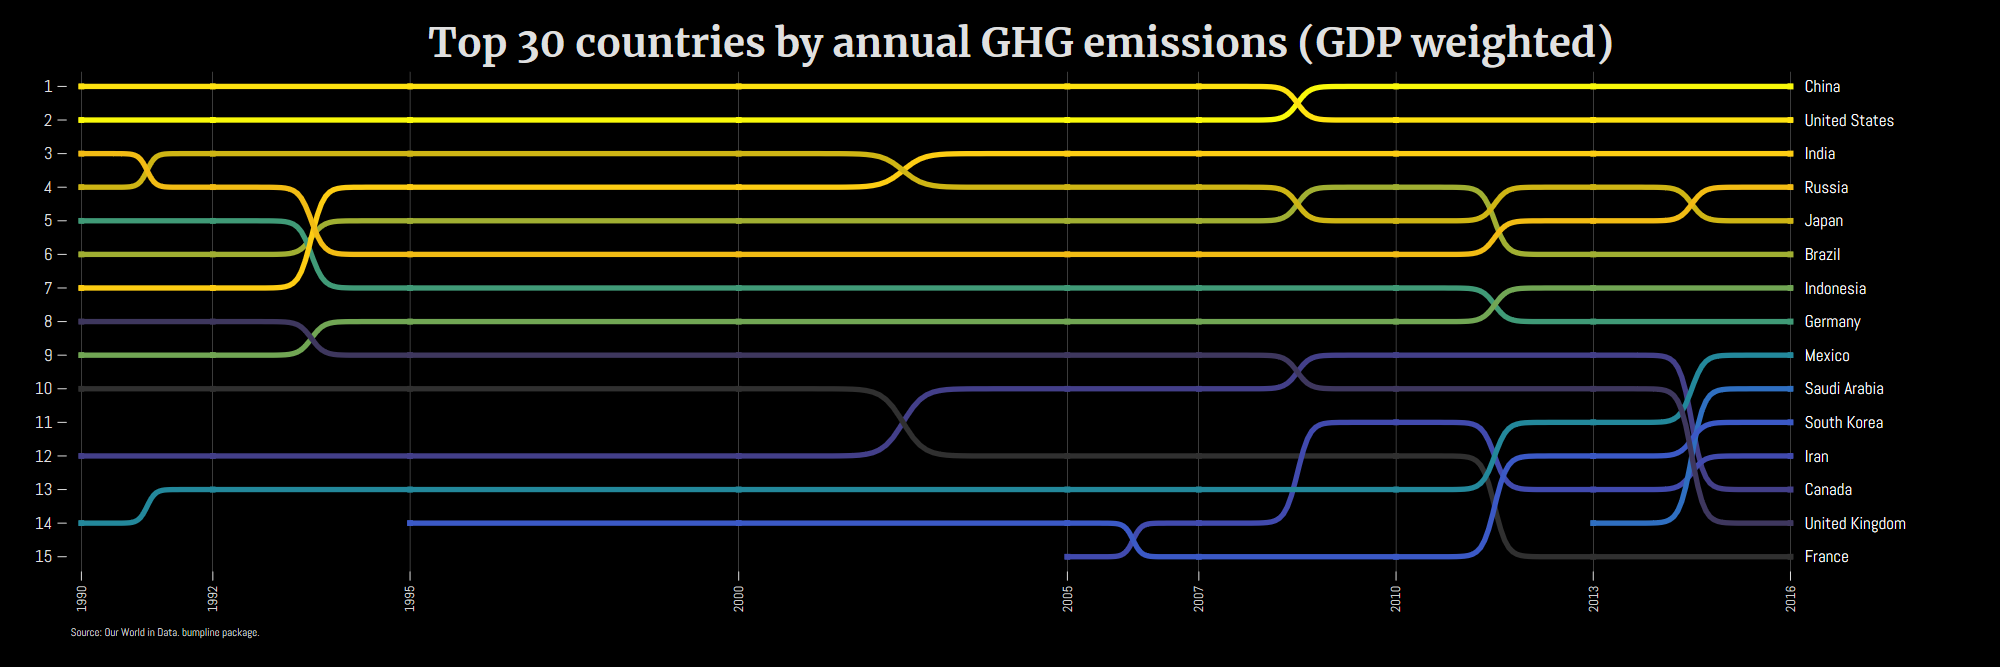
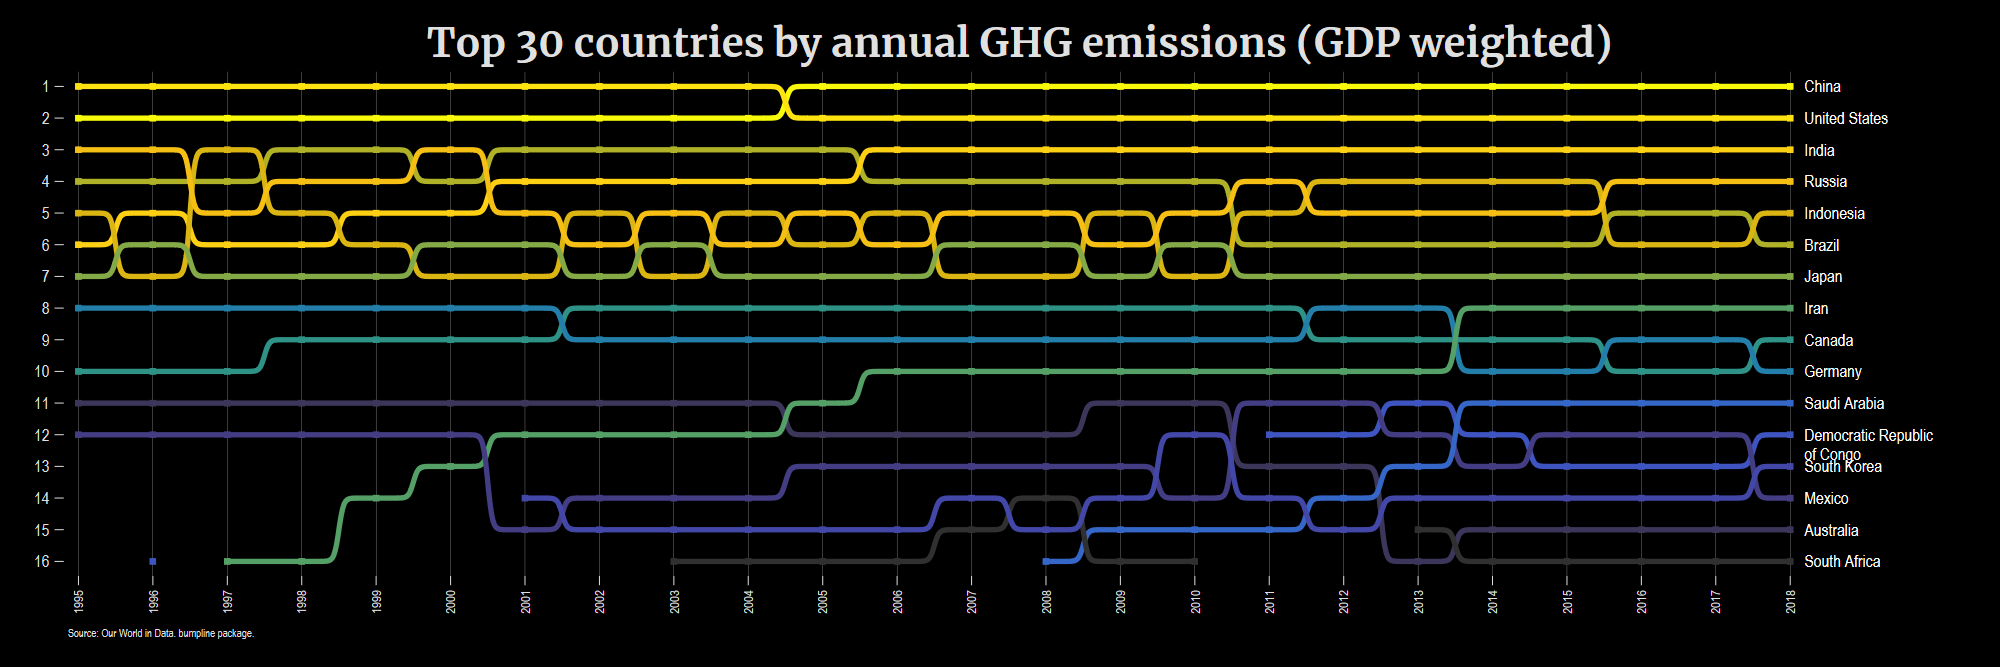
v1.3 figs

diff --git a/README.md b/README.md
@@ -112,7 +112,7 @@ Naqvi, A. (2024). Stata package "bumpline" version 1.3. Release date 22 October 
 
 Load the Stata dataset
 
-```
+```stata
 use "https://github.com/asjadnaqvi/stata-bumpline/blob/main/data/owid_emissions_reduced.dta?raw=true", clear
 
 drop if iso_code==""
@@ -273,14 +273,20 @@ smooth(4) top(20) palette(CET L04) ///
 
 
 ```stata
+use "https://github.com/asjadnaqvi/stata-bumpline/blob/main/data/owid_emissions_reduced.dta?raw=true", clear
+drop if iso_code==""
+drop if year < 1995
+
 levelsof year if !missing(gdp)
 
-bumpline total_ghg year [fw = gdp], by(country) wrap(20) dropother  ///	
-smooth(8) top(15) palette(CET L20, reverse) labc(white) ///
-	lw(0.8) msym(square) mlwid(0.3) msize(0.4) xlabel("`r(levels)'", angle(90) labsize(2)) offset(10) labsize(2.6)  ///
+
+bumpline total_ghg year [aw = gdp], by(country) wrap(20) dropother  ///	
+smooth(8) top(16) palette(CET L20, reverse) labc(white) ///
+	lw(0.8) msym(square) mlwid(0.3) msize(0.5) xlabel("`r(levels)'", angle(90) labsize(2)) offset(10) labsize(2.6)  ///
 	title("{fontface Merriweather Bold:Top 30 countries by annual GHG emissions (GDP weighted)}",  size(6)) ///
 			note("Source: Our World in Data. bumpline package.", size(1.6)) ///
 			xsize(3) ysize(1) scheme(neon)
+
 ```
 
 <img src="/figures/bumpline15.png" width="100%">
